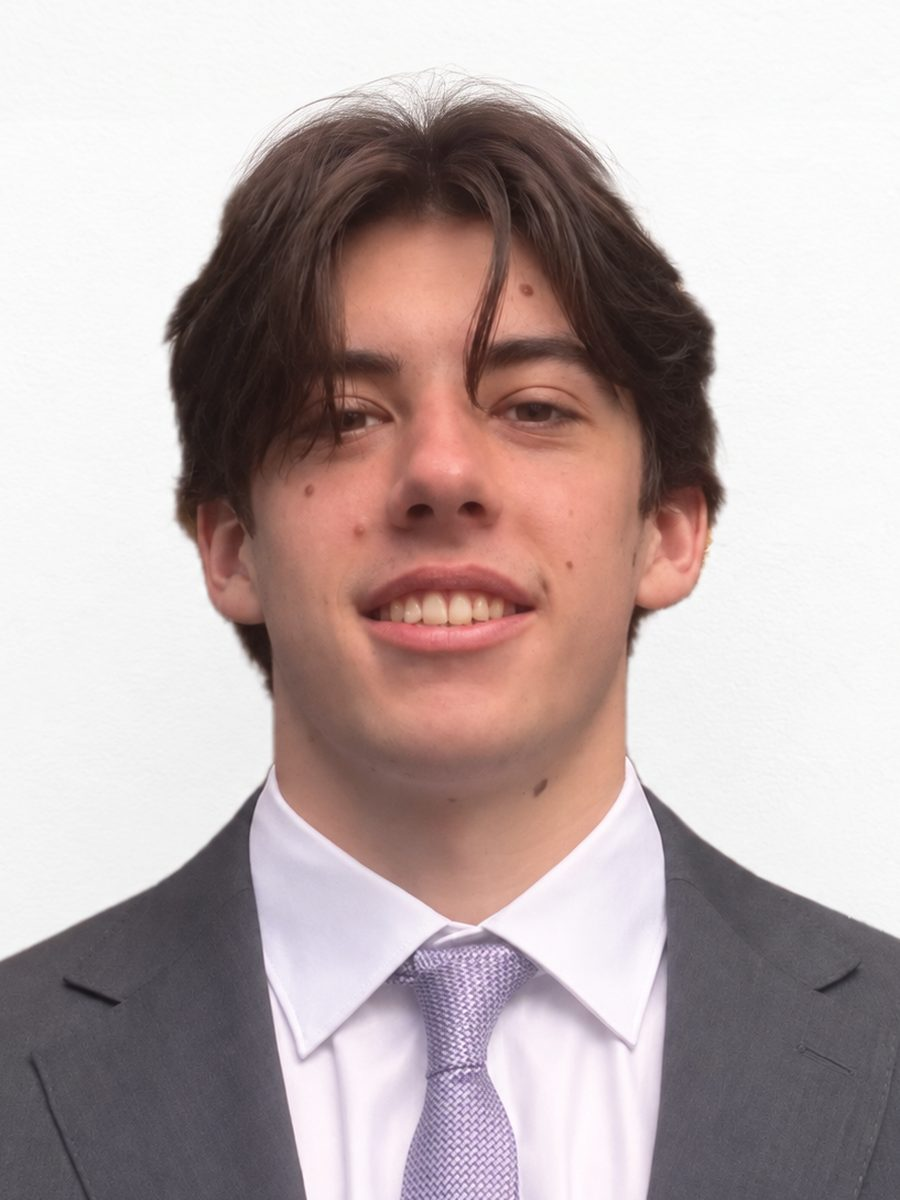
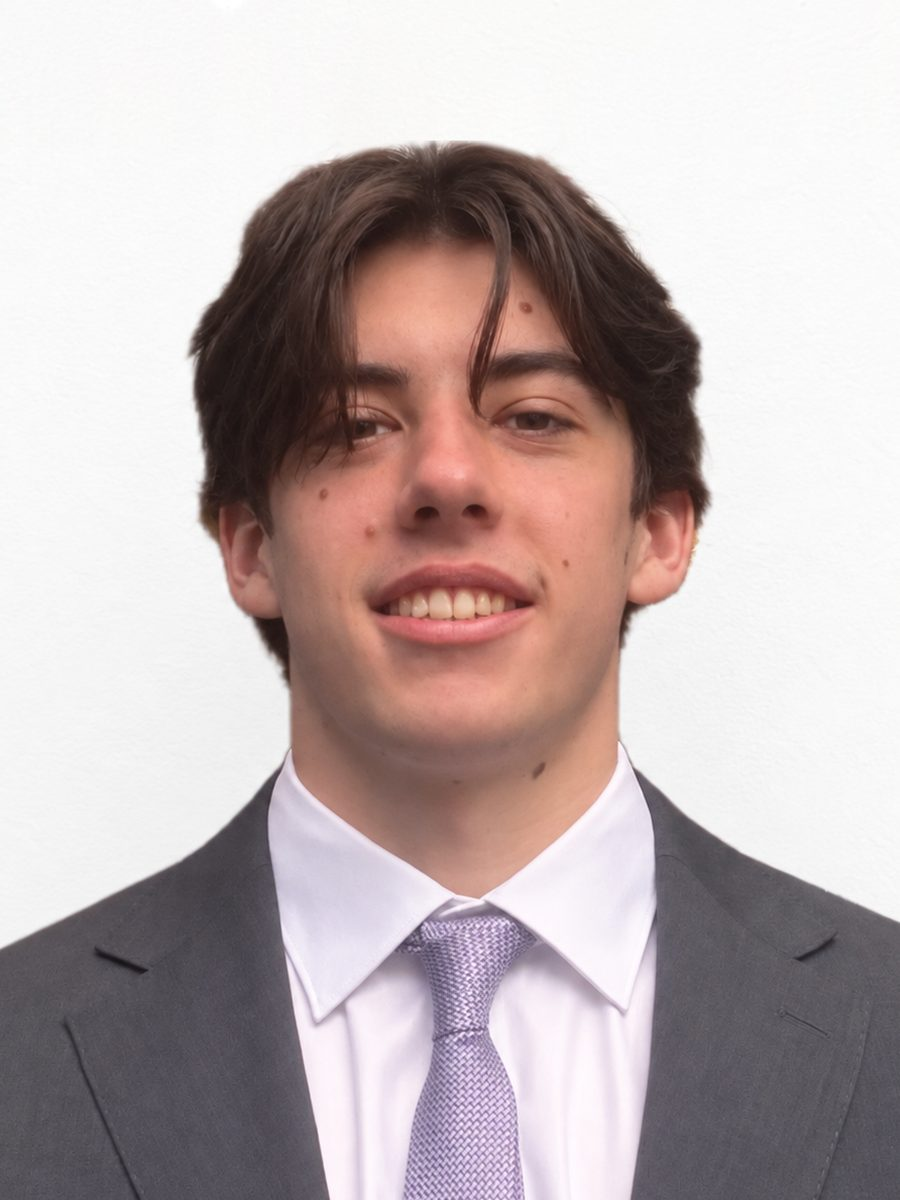
Kaspar photo: real background instead of generated; stop stale photo caching (#25)
Kaspar's original is extended upward with its own wall colour and grain
(sampled from the photo, no image model), with the cut hair line rounded
off, so he sits at the common eye line. Team photos now carry a version
query and are cached for 5 minutes instead of a day plus a week of
stale-while-revalidate, so replaced headshots show up right away.

Claude-Session: https://claude.ai/code/session_016rtwW6F4ZxnBTU6Y9U1igo

diff --git a/src/components/about/TeamMemberCard.jsx b/src/components/about/TeamMemberCard.jsx
@@ -2,6 +2,10 @@ import { useId, useState } from "react";
 import { motion, AnimatePresence, useReducedMotion } from "framer-motion";
 import { FaLinkedin } from "react-icons/fa";
 
+// Appended to photo URLs so browsers fetch replaced headshots instead of a cached copy.
+// Photos are also served with a 5 minute cache (vercel.json), so this rarely needs a bump.
+const PHOTO_VERSION = "2026-10-31";
+
 function ExpandIcon({ expanded }) {
   return (
     <div className="relative w-3 h-3 flex items-center justify-center">
@@ -28,7 +32,7 @@ export default function TeamMemberCard({ member }) {
       <div className="relative overflow-hidden">
         <div className="h-1 bg-ais-ocean" />
         <img
-          src={member.photo}
+          src={member.photo.startsWith("/") ? `${member.photo}?v=${PHOTO_VERSION}` : member.photo}
           alt={member.name}
           className="w-full aspect-[3/4] object-cover grayscale"
           loading="lazy"
